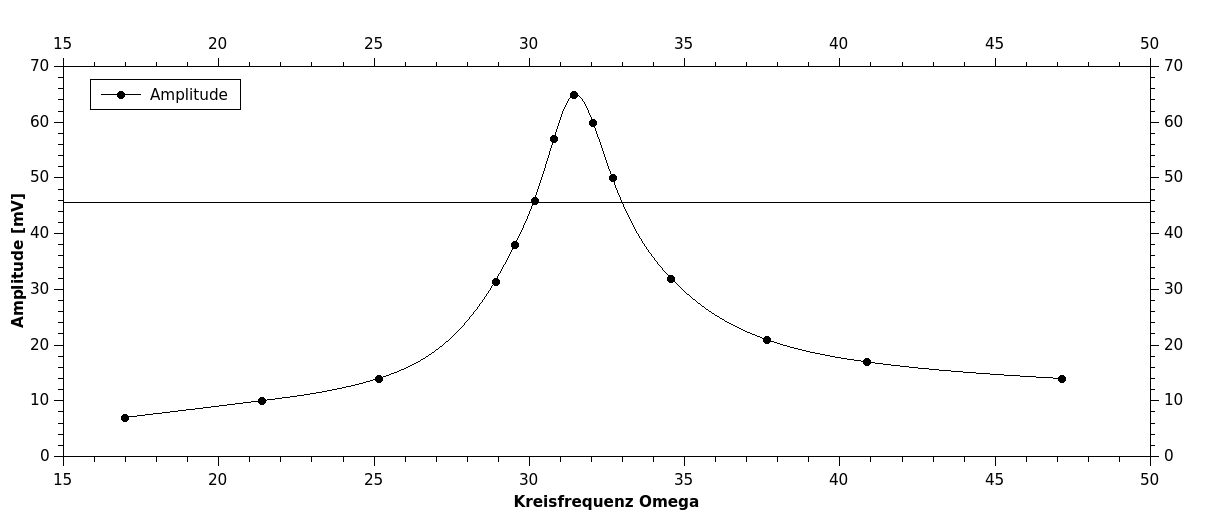
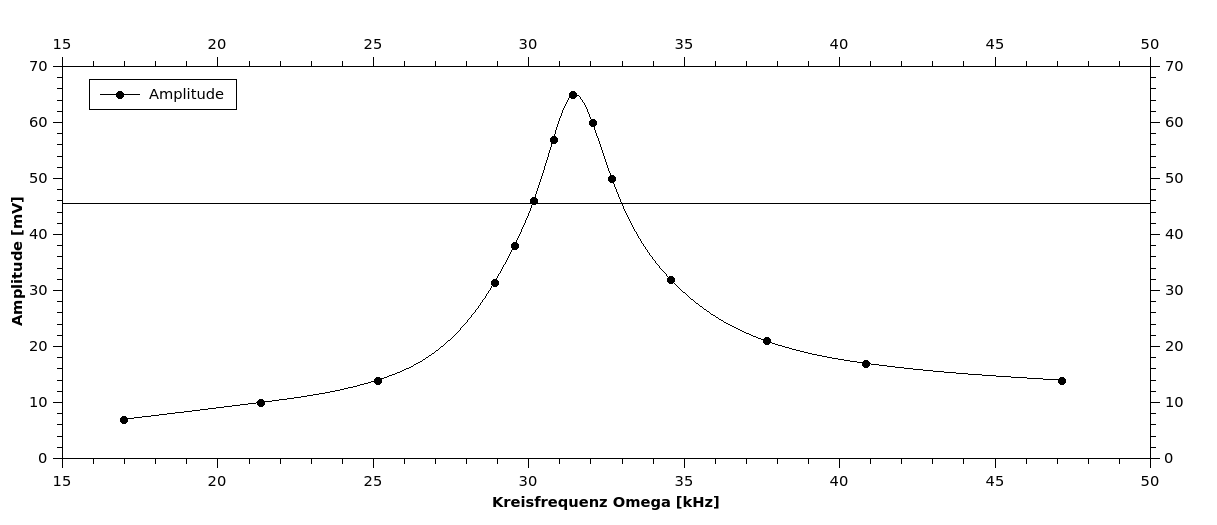
resonanz erg korrektur

diff --git a/PS_2/PS2_document.tex b/PS_2/PS2_document.tex
@@ -364,10 +364,10 @@ $$K = 2*2341*35903 /((2341)^2+(35903.9)^2)$$
 
 \subsection{Resonanzkurven mit und ohne Dämpfung}
 \textbf{Ohne Dämpfung:}\\
-$$\omega_{0d} = (31.42 \pm 0.01) Hz$$
+$$\omega_{0d} = (31.42 \pm 0.01) kHz$$
 $\omega_{0d}$ bei 292mV\\
 $292mV / \sqrt{2} ~ 206mV$\\
-$$\delta_{0 \Omega} = (31.78 - 31.05)/2 = (0.37 \pm 0.01)  \frac{1}{s}$$
+$$\delta_{0 \Omega} = (31.78 - 31.05)/2 = (370 \pm 1)  \frac{1}{s}$$
 $$Q = $$ %todo
 
 \end{multicols}
@@ -381,10 +381,10 @@ $$Q = $$ %todo
 
 
 \textbf{Mit Dämpfung:}\\
-$$\omega_{0d} = (31.42 \pm 0.01) Hz$$
+$$\omega_{0d} = (31.42 \pm 0.01) kHz$$
 $\omega_{0d}$ bei 65mV\\
 $65 / \sqrt{2} ~ 46mV$\\
-$$\delta_{2 \Omega} = (32.97 - 30.13)/2 = (1.42 \pm 0.01)  \frac{1}{s}$$
+$$\delta_{2 \Omega} = (32.97 - 30.13)/2 = (1420 \pm 1)  \frac{1}{s}$$
 $$Q = $$ %todo
 
 \end{multicols}
